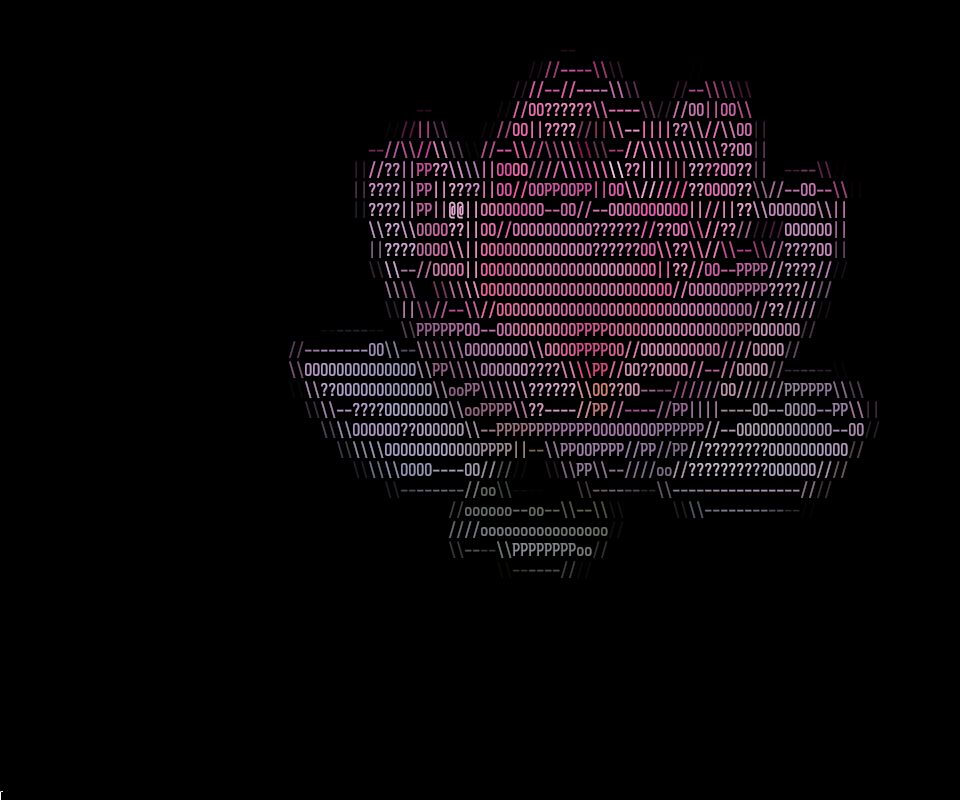
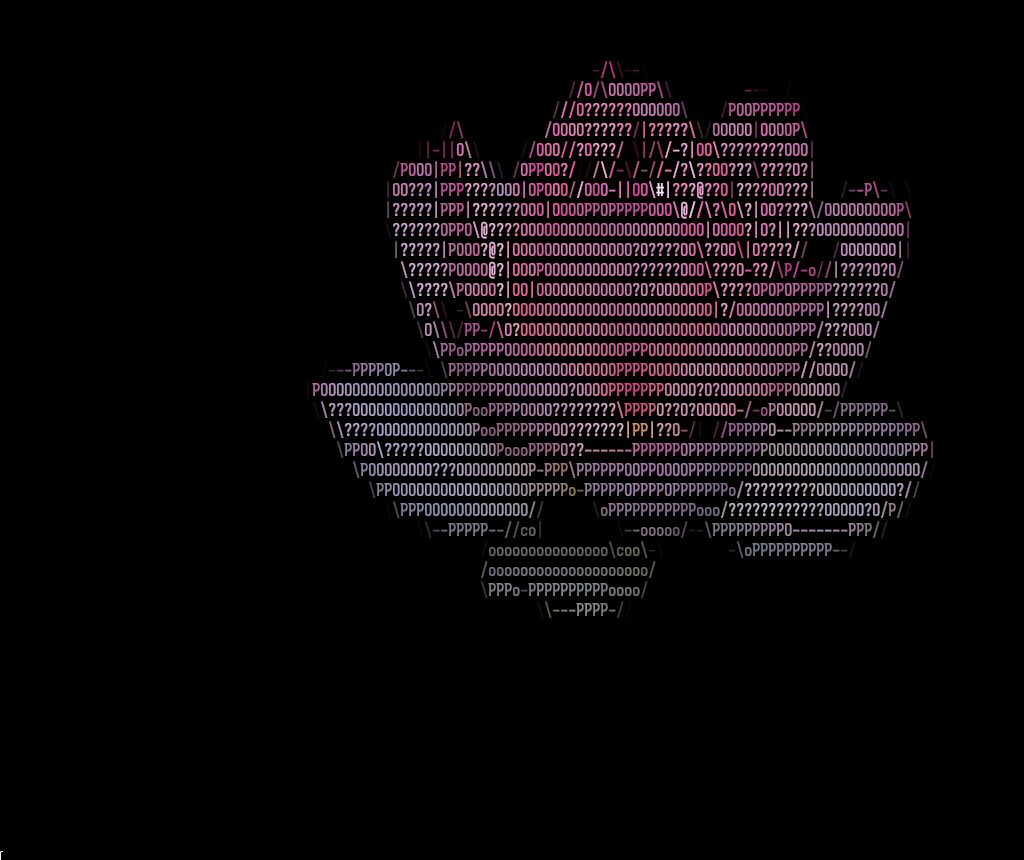
+option to set edge color,chunking based on font proportions,binned colors

Changed region(s): [[0.2812, 0.0625, 0.9062, 0.7188]]

diff --git a/ascii_img/__init__.py b/ascii_img/__init__.py
@@ -23,7 +23,7 @@ class CharacterIdx(Enum):
     BRIGHTNESS_9 = 13
 
 
-def split_img(img: np.ndarray, boxsize: int) -> np.ndarray:
+def split_img(img: np.ndarray, boxsize: int, proportion_thing: int) -> np.ndarray:
     shape = img.shape
     w = shape[1]
     h = shape[0]
@@ -38,7 +38,9 @@ def split_img(img: np.ndarray, boxsize: int) -> np.ndarray:
                 i * boxsize : (i + 1) * boxsize, j * boxsize : (j + 1) * boxsize, :
             ]
 
-    return ret
+    # only use every second chunk in y range because terminal fonts are kind of 1:2
+
+    return ret[range(0, ret.shape[0], proportion_thing), :, :]
 
 
 def char_for_normalised_rad(angle: float) -> int:
@@ -73,6 +75,7 @@ def edge_char_map(
     grayscale: np.ndarray,
     kernelsize: int,
     threshold: float,
+    edge_color_hex: str,
     # edge_chars: str,
 ) -> np.ndarray:
     """
@@ -80,6 +83,13 @@ def edge_char_map(
     and outputs a similar shaped ndarray with the character
     representing each edge/corner.
     """
+
+    # translate hex to rgb uint8 triplet
+    edge_color = [
+        int(edge_color_hex[1:3], 16),
+        int(edge_color_hex[3:5], 16),
+        int(edge_color_hex[5:7], 16),
+    ]
 
     """
     Sobel Filter analogous to the method showcased in Acerola Video
@@ -111,14 +121,9 @@ def edge_char_map(
         [
             [
                 (
-                    [
-                        char_for_normalised_rad(angles[i, j, 0] / math.pi),
-                        0,
-                        0,
-                        0,
-                    ]
+                    [char_for_normalised_rad(angles[i, j, 0] / math.pi)] + edge_color
                     if angles[i, j, 1] > threshold
-                    else [CharacterIdx.EMPTY.value, 0, 0, 0]
+                    else [CharacterIdx.EMPTY.value] + edge_color
                 )
                 for j in range(angles.shape[1])
             ]
@@ -136,13 +141,48 @@ def color(
     return np.array(
         [
             [
-                # over color channels
+                # average over color channels
+                # colors are BGR because opencv
                 [CharacterIdx.EMPTY.value]
                 + [int(np.average(chunks[i, j, :, :, k])) for k in range(2, -1, -1)]
                 for j in range(chunks.shape[1])
             ]
             for i in range(chunks.shape[0])
         ]
+    )
+
+
+def color_bin(chunks: np.ndarray, cluster_count: int) -> np.ndarray:
+
+    colors: np.ndarray = np.float32(
+        np.array(
+            [
+                [
+                    [int(np.average(chunks[i, j, :, :, k])) for k in range(2, -1, -1)]
+                    for j in range(chunks.shape[1])
+                ]
+                for i in range(chunks.shape[0])
+            ]
+        ).reshape(-1, 3)
+    )
+
+    _, label, center = cv2.kmeans(
+        colors,
+        cluster_count,
+        None,
+        (cv2.TERM_CRITERIA_EPS + cv2.TERM_CRITERIA_MAX_ITER, 10, 1.0),
+        10,
+        cv2.KMEANS_RANDOM_CENTERS,
+    )
+    colorcodes = np.uint8(center)
+    return np.reshape(
+        np.array(
+            [
+                np.insert(code, 0, CharacterIdx.EMPTY.value)
+                for code in colorcodes[label.flatten()]
+            ]
+        ),
+        (chunks.shape[0], chunks.shape[1], 4),
     )
 
 
@@ -183,7 +223,7 @@ def main(args) -> None:
         # TODO: epxand with proper watershed
         img = img * (thresholding_segment == 0)[:, :, None]
 
-    chunks = split_img(img, args.kernelsize)
+    chunks = split_img(img, args.kernelsize, 1 if args.dont_adjust_to_font else 2)
     brightness: np.ndarray = np.average(chunks, -1)  # average of rgb -> monochrome
 
     if args.edge_value is None:
@@ -196,12 +236,14 @@ def main(args) -> None:
     for a in args.actions.split(","):
         match a:
             case "edge":
-                edge_run = edge_char_map(brightness, args.kernelsize, args.edge_value)
+                edge_run = edge_char_map(
+                    brightness, args.kernelsize, args.edge_value, args.edge_color
+                )
                 # apply edge chars only
                 for i in range(color_and_char_map.shape[0]):
                     for j in range(color_and_char_map.shape[1]):
                         if edge_run[i, j, 0] != CharacterIdx.EMPTY.value:
-                            color_and_char_map[i, j, 0] = edge_run[i, j, 0]
+                            color_and_char_map[i, j] = edge_run[i, j]
 
             case "brightness":
                 brightness_run = character_selection(brightness)
@@ -216,11 +258,20 @@ def main(args) -> None:
                         color_and_char_map[i, j, 1] = color_run[i, j, 1]
                         color_and_char_map[i, j, 2] = color_run[i, j, 2]
                         color_and_char_map[i, j, 3] = color_run[i, j, 3]
+            case "color_bin":
+                color_run = color_bin(chunks, args.color_bins)
+                for i in range(color_and_char_map.shape[0]):
+                    for j in range(color_and_char_map.shape[1]):
+                        color_and_char_map[i, j, 1] = color_run[i, j, 1]
+                        color_and_char_map[i, j, 2] = color_run[i, j, 2]
+                        color_and_char_map[i, j, 3] = color_run[i, j, 3]
+            case _:
+                print(f"Method {a} not implemented!")
 
     if args.bg:
         print(set_bg([0, 0, 0]))
-    # translate numbers to characters
 
+    # translate numbers to characters
     character_map = {
         CharacterIdx.EMPTY.value: " ",
         CharacterIdx.ANGLE_0.value: "|",
@@ -250,4 +301,4 @@ def main(args) -> None:
         ]
     )
     for i, e in enumerate(ascii_art):
-        print("".join(np.repeat(e, 2)))
+        print("".join(e))

diff --git a/ascii_img/__main__.py b/ascii_img/__main__.py
@@ -15,6 +15,15 @@ if __name__ == "__main__":
         + "of the program, like colors, edges, ...",
     )
     args.add_argument(
+        "--bg", help="Add ESC Sequence for black background", action="store_true"
+    )
+    args.add_argument(
+        "-s",
+        "--subtract-bg",
+        help="Try to extract the foreground of the image before creating the ascii art",
+        action="store_true",
+    )
+    args.add_argument(
         "-d",
         "--downscaling-factor",
         help="Factor by which the image should be downscaled, corresponds to the kernel size"
@@ -32,12 +41,24 @@ if __name__ == "__main__":
         type=int,
     )
     args.add_argument(
-        "--bg", help="Add ESC Sequence for black background", action="store_true"
+        "-b",
+        "--color-bins",
+        type=int,
+        help="Number of colorbins that are supposed to be found",
+        default=8,
     )
     args.add_argument(
-        "-s",
-        "--subtract-bg",
-        help="Tries to extract the foreground of the image before creating the ascii art",
+        "-e",
+        "--edge-color",
+        type=str,
+        help="Color assigned to detected edges (if they should be visible the edge action should"
+        + " be used AFTER colorizing), default=#000000",
+        default="#000000",
+    )
+    args.add_argument(
+        "--dont-adjust-to-font",
         action="store_true",
+        help="Don't remove half the image height to adjust to usual terminal font sizing. Recommended"
+        + " if you use a bitmap font that has the same height as width.",
     )
     main(args.parse_args())

diff --git a/README.md b/README.md
@@ -32,7 +32,8 @@ video i also noticed how simple the processing actually is.
 - [x] brightness based characters (10 levels so far)
 - [x] truecolor escapes for colored pixels
 - [x] configurable kernel sizes
-- [ ] color binning with normalized brightness
+- [x] color binning
+- [x] properly deal with terminal fonts (they are not 1:1)
 - [ ] GUI/TUI with live reload
 - [ ] Automatic Kernel size selection (in CLI/TUI)
 - [ ] export as script for neovim dashboards(?)
@@ -41,12 +42,19 @@ If you feel like smth is missing open an issue.
 
 ## Examples
 
-```bash
-python -m ascii_img flower.jpg brightness,edge,color -d 15 -s --bg -t 150
-```
-
 ![Source Image](./examples/flower.jpg) 
+
+
+```bash
+python -m ascii_img flower.jpg brightness,edge,color -d 7 -s --bg -t 150
+```
 ![ASCII Version](./examples/flower_ascii.jpg) 
+
+```bash
+python -m ascii_img flower.jpg brightness,color,edge -d 9 -
+```
+![ASCII Version with highlighted edges](./examples/flower_ascii_edges.jpg) 
+
 ## Usage
 
 This is still in an early version, so the usage is not finalized, for now you have to use `-h`
